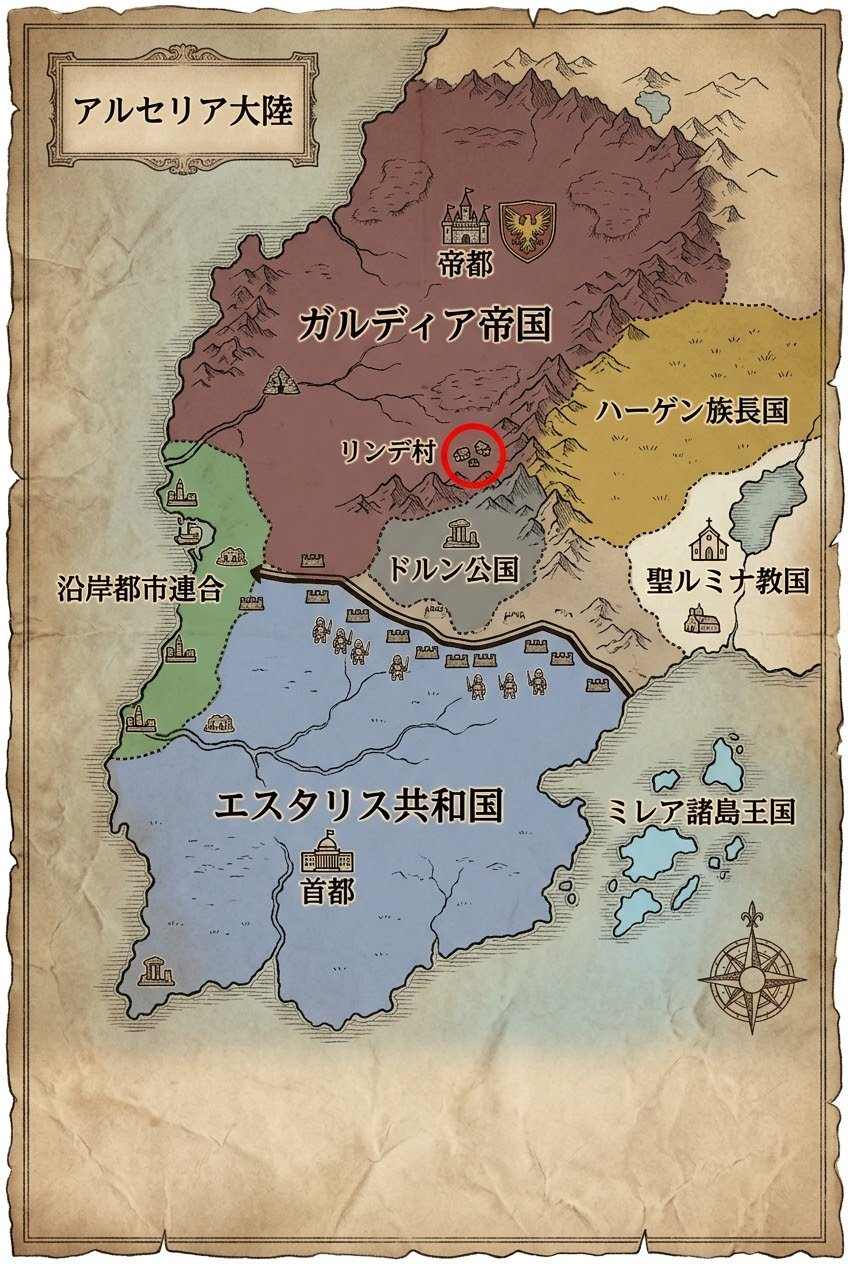
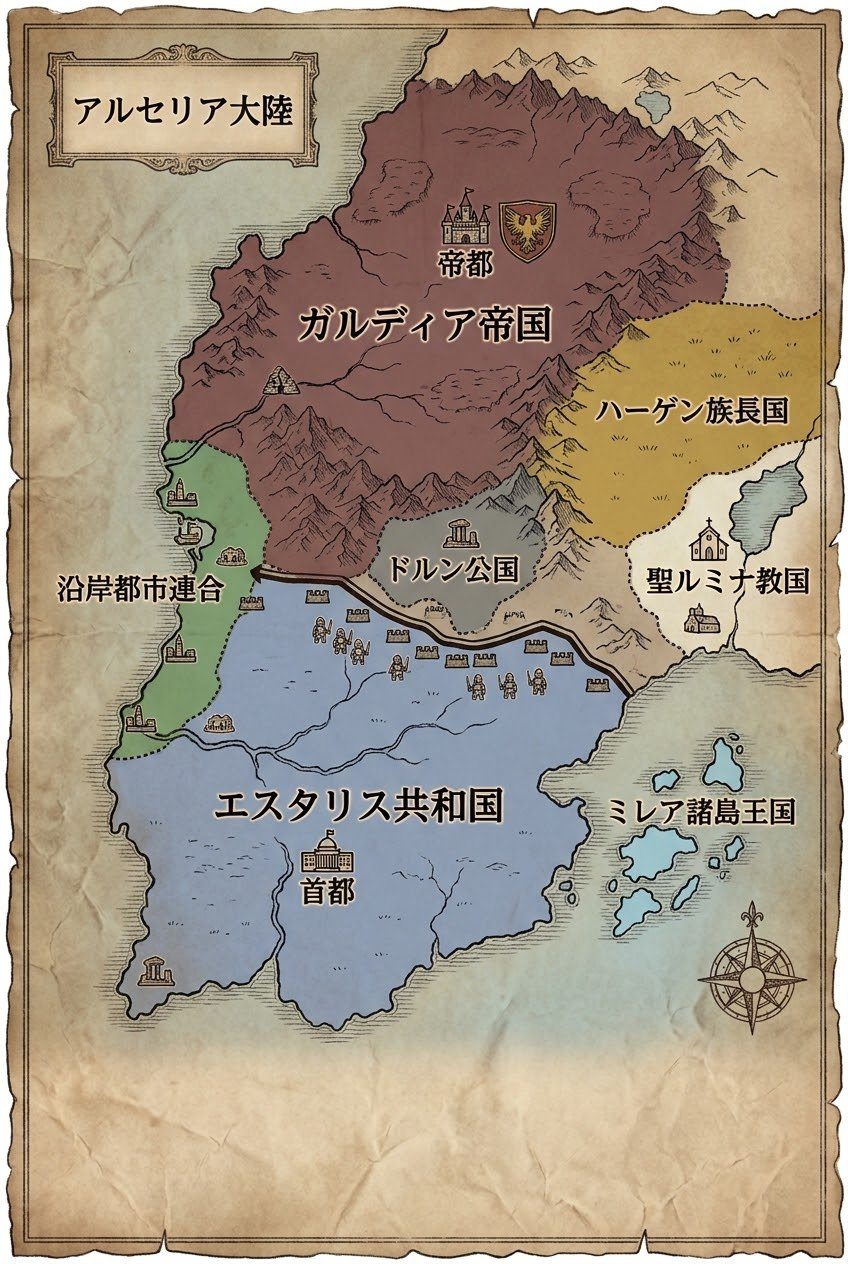
大陸の地図を印なしに差し替え、地名の印はゲーム側で重ねる
Claude-Session: https://claude.ai/code/session_01AR1wXjuAR5sE8Te44vnUbP

diff --git a/index.html b/index.html
@@ -152,6 +152,12 @@ button:focus-visible{outline:2px solid var(--amber);outline-offset:2px}
 /* 会話の背景画（BG）。背景があるときは文字枠を下に置く */
 #dialog.hasbg{justify-content:flex-end;padding-bottom:max(7vh,env(safe-area-inset-bottom,0px));background-color:#000;background-size:cover;background-position:center}
 #dialog .msg{height:auto;min-height:96px}
+/* 地図の上の印（MAP_PLACES）。地図の画像に対する位置（%）で置く */
+#dMark{position:absolute;width:0;height:0;pointer-events:none}
+#dMark .ring{position:absolute;left:-17px;top:-17px;width:34px;height:34px;border:3px solid #d42a2a;border-radius:50%;box-shadow:0 0 0 2px #fff8,0 0 10px #d42a2aaa;animation:markp 1.4s ease-in-out infinite}
+#dMark .lbl{position:absolute;right:22px;top:-11px;white-space:nowrap;font-family:var(--disp);font-size:14px;font-weight:700;color:#2b1a12;text-shadow:0 0 3px #f3e6c8,0 0 3px #f3e6c8,0 0 6px #f3e6c8}
+@keyframes markp{0%,100%{transform:scale(1)}50%{transform:scale(1.15)}}
+@media (prefers-reduced-motion:reduce){#dMark .ring{animation:none}}
 #dialog.hasbg .msg{background:#0b1220e8}
 #dialog.hasbg .skip{color:#dfe7f2;text-shadow:0 1px 3px #000}
 #dialog.narr .txt{color:#c3cfdf;font-size:14px;line-height:1.8}
@@ -181,6 +187,7 @@ button:focus-visible{outline:2px solid var(--amber);outline-offset:2px}
 </div>
 
 <div id="dialog" class="ov dlg" hidden>
+  <div id="dMark" hidden><span class="ring"></span><span class="lbl"></span></div>
   <div class="msg" style="max-width:600px"><img class="face" id="dFace" alt="" hidden><div class="mtx"><div class="who" id="dWho"></div><div class="txt" id="dTxt"></div></div></div>
   <div class="skip">タップで次へ</div>
 </div>
@@ -410,7 +417,7 @@ const STAGES={
    ['golmkai','foe',4,1],['golm_x','foe',5,2],['zekt_x','foe',2,3],['zekt_x','foe',7,3],
    ['hound','foe',5,3],['hound','foe',3,4],['hound','foe',6,5]],
   pre:[
-   {who:'',text:'大陸暦598年、春。ガルディア帝国の南、ドルン公国との国境の山あい。',narr:1,bg:'map'},
+   {who:'',text:'大陸暦598年、春。ガルディア帝国の南、ドルン公国との国境の山あい。',narr:1,bg:'map',mark:'linde'},
    {who:'',text:'灰の講和から27年。帝国と共和国は剣を収めたまま睨み合い、国境の村々は、その谷間で静かに痩せ細っていた。',narr:1},
    {who:'',text:'― 司令部 ―',narr:1,bg:'hq'},
    {who:'伝令',text:'申し上げます！　リンデ村より救援要請。盗賊団の襲撃を受けており、機兵を数機確認とのこと！'},
@@ -990,15 +997,27 @@ function setFace(el,name){const f=faceSrc(name);if(f){el.onerror=()=>{el.hidden=
 const BG={map:'assets/bg/continent.jpg',hq:'assets/bg/hq.jpg'};
 // 端を切らずに全体を見せる背景（地図など）。画面の上に寄せ、余白は背景色
 const BG_WHOLE=['map'];
+// 地図の上に重ねる印。x / y は地図の画像（continent.jpg）の幅・高さに対する位置（%）。
+// 会話の行に mark:'linde' と書くとその行から印が出る（bg が変わると消える。mark:null でも消える）
+const MAP_PLACES={
+ linde:{x:56.3,y:36.0,label:'リンデ村'}
+};
+const BG_SIZE={map:[848,1264]};
 for(const f of Object.values(BG))new Image().src=f;
 function dialog(lines,o={}){
   return new Promise(res=>{
-    const d=$('dialog');let i=0,bg=o.bg||null;
+    const d=$('dialog'),mk=$('dMark');let i=0,bg=o.bg||null,mark=null;
     d.classList.toggle('solid',!!o.solid);
-    const setBg=()=>{const url=o.solid&&bg&&BG[bg];d.classList.toggle('hasbg',!!url);const whole=url&&BG_WHOLE.includes(bg);d.style.backgroundImage=url?(whole?`url(${url})`:`linear-gradient(#0000 45%,#000b),url(${url})`):'';d.style.backgroundSize=whole?'contain':'';d.style.backgroundPosition=whole?'center top':'';d.style.backgroundRepeat=whole?'no-repeat':''};
-    const show=()=>{const l=lines[i];if('bg' in l)bg=l.bg;setBg();setFace($('dFace'),l.narr?'':l.who);$('dWho').textContent=l.who;$('dWho').hidden=!l.who;$('dTxt').textContent=l.text;d.classList.toggle('narr',!!l.narr)};
-    show();d.hidden=false;
-    d.onclick=()=>{i++;snd('sel');if(i>=lines.length){d.hidden=true;d.onclick=null;d.classList.remove('hasbg');d.style.backgroundImage='';res()}else show()};
+    const setBg=()=>{const url=o.solid&&bg&&BG[bg];d.classList.toggle('hasbg',!!url);const whole=url&&BG_WHOLE.includes(bg);d.style.backgroundImage=url?(whole?`url(${url})`:`linear-gradient(#0000 45%,#000b),url(${url})`):'';d.style.backgroundSize=whole?'contain':'';d.style.backgroundPosition=whole?'center top':'';d.style.backgroundRepeat=whole?'no-repeat':'';placeMark()};
+    // 印は、端を切らずに表示している地図（BG_WHOLE）の上だけに出す
+    const placeMark=()=>{const p=mark&&MAP_PLACES[mark],sz=BG_SIZE[bg];
+      if(!p||!sz||!o.solid||!BG[bg]||!BG_WHOLE.includes(bg)){mk.hidden=true;return}
+      const W=d.clientWidth,H=d.clientHeight,k=Math.min(W/sz[0],H/sz[1]),w=sz[0]*k,h=sz[1]*k;
+      mk.style.left=((W-w)/2+w*p.x/100)+'px';mk.style.top=(h*p.y/100)+'px';mk.querySelector('.lbl').textContent=p.label;mk.hidden=false};
+    const onRs=()=>placeMark();addEventListener('resize',onRs);
+    const show=()=>{const l=lines[i];if('bg' in l){bg=l.bg;mark=null}if('mark' in l)mark=l.mark;setBg();setFace($('dFace'),l.narr?'':l.who);$('dWho').textContent=l.who;$('dWho').hidden=!l.who;$('dTxt').textContent=l.text;d.classList.toggle('narr',!!l.narr)};
+    show();d.hidden=false;placeMark();
+    d.onclick=()=>{i++;snd('sel');if(i>=lines.length){d.hidden=true;d.onclick=null;d.classList.remove('hasbg');d.style.backgroundImage='';mk.hidden=true;removeEventListener('resize',onRs);res()}else show()};
   });
 }
 

diff --git a/CLAUDE.md b/CLAUDE.md
@@ -13,6 +13,7 @@
   - 別の機体の画像を使うときは TPL に `spr:'zekt'` のように書く（中隊と盗賊のゼクト・ゴルム）。`tint` で色を重ねられ、`spr:false` は画像なし（図形で描く）。待機・歩行・攻撃の絵がある機体は `SPR_EXTRA`。
 - パイロットの顔グラは `assets/faces/<名前>.png`（128×128）。設定画（`empire-01-sheet.png`・`empire-01-faces.png`・`setting-sheet.png`）の人物画から切り抜いたもの。`FACE`（名前→ファイル名）で引き、戦闘画面・会話・ステータス画面に出す。新しいキャラは設定画から切り抜いて `FACE` に足す。
 - 会話の背景画は `assets/bg/<名前>.jpg`（縦長、スマホ縦画面向け）。`BG`（名前→ファイル）に登録し、会話の行に `bg:'hq'` と書くとその行から背景が変わる（マップを隠す solid の会話だけ）。背景があるときは文字枠を下に置く。`BG` にない名前は無地。帝国編第1話は map（大陸の地図。冒頭のナレーション。`BG_WHOLE` に入れてあり、端を切らずに全体を画面の上に表示）・hq（司令部）・hangar（格納庫、未作成）・village（リンデ村、未作成）。
+- 大陸の地図（`assets/bg/continent.jpg`）には地名の印を描き込まない。話ごとの場所は、会話の行に `mark:'linde'` と書き、ゲーム側で赤い丸と地名を重ねる。場所は `MAP_PLACES`（地図の画像に対する x / y の %）に足す。印は端を切らずに表示している背景（`BG_WHOLE`）の上だけに出る。
 - マップ上のユニットは向きを変えない。いつも「通常時」（`_idle`）の絵、なければ正面（`_down`）で描く（ユーザーの希望）。
 - 機体デザインは既存作品に似せない。特に、頭部の V字アンテナや、ガンダム風の「二つ目＋マスク状の口元」の顔は使わない。グランヴァルドは一本角とバイザー型の目、シルフィードは後ろへ流れる耳型センサーとゴーグル型の目、カイザー・ネメシスは王冠状の角、ゼクトは歩兵の鉄兜のようなつばのある丸い頭と固定式の赤い単眼（単眼をスリットの中で動かす形にしない。紫と黒の配色、裾の広がった脚にしない）、カラドリウスはくちばし状に突き出した額の装甲と後頭部へ流れる白い羽根状のアンテナ3枚（目はくちばしの付け根の金の単眼）、ハウンドは鉄格子で囲んだむき出しの操縦席と作業灯2つ、ゴルム改はゴルムの箱型の頭に額の一本の衝角、を基本形にする。
 - スマホ縦画面が基準（幅400px前後）。

diff --git a/STORY.md b/STORY.md
@@ -29,7 +29,7 @@
 | 聖ルミナ教国 | 東の湖のほとり | 中立の宗教国家で、二大国の仲裁役。古代文明について何かを隠している（案） |
 | ミレア諸島王国 | 南東の島々 | 海洋国家。共和国側 |
 
-大陸の地図：`docs/ref/continent-map.jpg`（ゲームでは帝国編第1話の冒頭に表示）。
+大陸の地図：`docs/ref/continent-map.jpg`（ゲームでは帝国編第1話の冒頭に表示）。地図には地名の印を描き込まず、話ごとの場所（第1話はリンデ村）はゲーム側で印を重ねる。
 
 **ヘリオ・コア**：古代文明が残したエネルギー結晶。人型兵器「機兵」の動力源になる。新しく作る方法は分かっていない。
 
